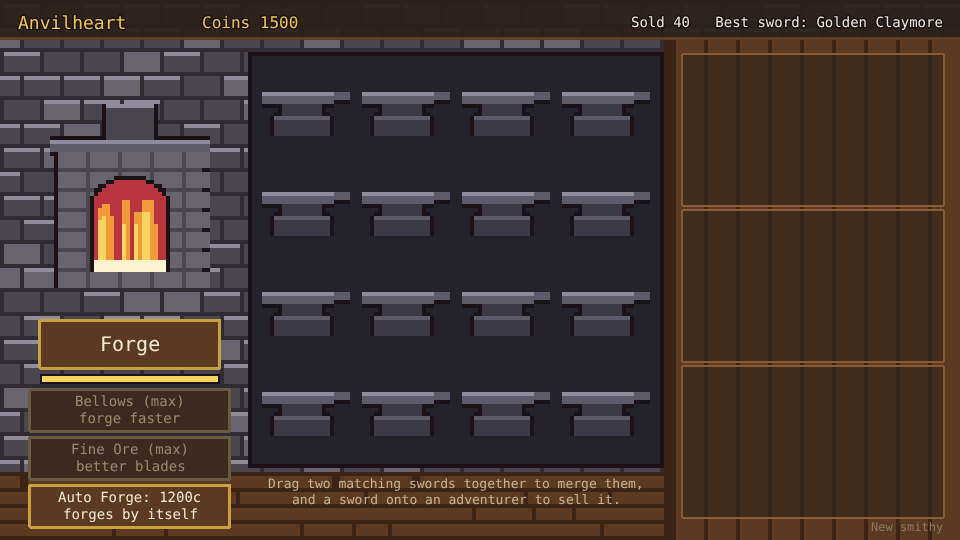
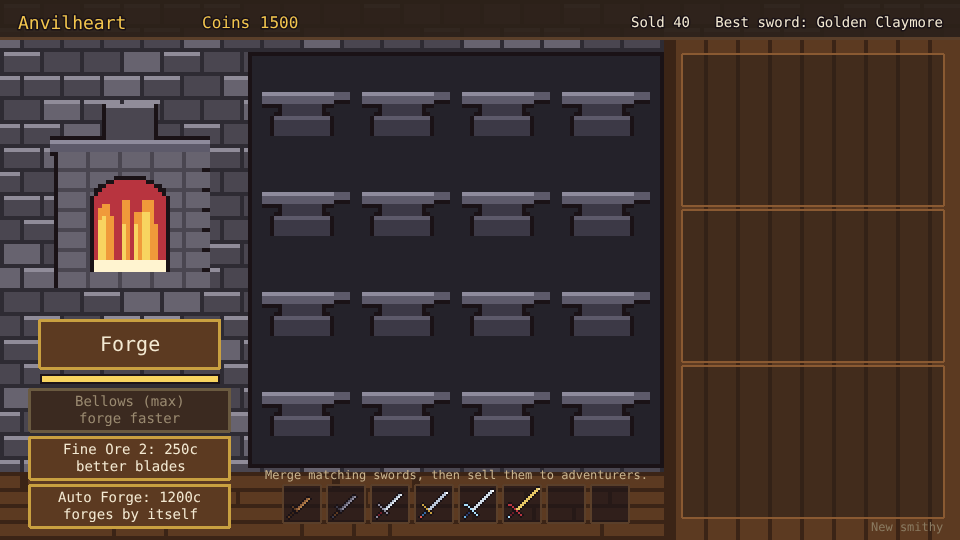
Anvilheart: Auto Forge needs only Bellows maxed; Fine Ore gets 5 ranks
Auto Forge now unlocks once Bellows is maxed; Fine Ore no longer has to
be. Fine Ore gets two more ranks (1500 and 3000 coins) at the same 20%
each, so at rank 5 the forge only makes Iron Shortswords. README,
AGENTS.md and the Auto Forge screenshots are updated; the playthrough
is unchanged.

Requested by Chriszly

Created with Claude Opus 5.5 (low)

Changed region(s): [[0.2812, 0.8593, 0.6562, 0.9778], [0.0312, 0.8, 0.25, 0.8889]]

diff --git a/games/anvilheart/src/game/upgrades.ts b/games/anvilheart/src/game/upgrades.ts
@@ -15,10 +15,11 @@ export interface Upgrade {
 export const UPGRADES: Record<UpgradeId, Upgrade> = {
   // Each rank takes 20% off the forge's heat-up time.
   bellows: { name: 'Bellows', blurb: 'forge faster', prices: [40, 110, 260, 600] },
-  // Each rank gives a 20% chance that the forge makes an Iron Shortsword instead of a dagger.
-  ore: { name: 'Fine Ore', blurb: 'better blades', prices: [90, 250, 700] },
+  // Each rank gives a 20% chance that the forge makes an Iron Shortsword instead of a dagger, so at
+  // the fifth rank it only makes Shortswords.
+  ore: { name: 'Fine Ore', blurb: 'better blades', prices: [90, 250, 700, 1500, 3000] },
   // The last forge upgrade: the forge makes a sword by itself whenever it is hot and an anvil is free.
-  auto: { name: 'Auto Forge', blurb: 'forges by itself', prices: [1200], after: ['bellows', 'ore'] },
+  auto: { name: 'Auto Forge', blurb: 'forges by itself', prices: [1200], after: ['bellows'] },
 };
 
 export const UPGRADE_IDS = Object.keys(UPGRADES) as UpgradeId[];

diff --git a/games/anvilheart/src/scenes/GameScene.ts b/games/anvilheart/src/scenes/GameScene.ts
@@ -308,7 +308,7 @@ export class GameScene extends Phaser.Scene {
         continue;
       }
       const name = u.prices.length > 1 ? `${u.name} ${rank + 1}` : u.name;
-      const blurb = locked(id, s.ranks) ? 'max the others first' : u.blurb;
+      const blurb = locked(id, s.ranks) ? 'max Bellows first' : u.blurb;
       const caption = price === null ? `${u.name} (max)\n${u.blurb}` : `${name}: ${price}c\n${blurb}`;
       button.set(caption, price !== null && s.coins >= price && !locked(id, s.ranks), 14);
     }

diff --git a/games/anvilheart/README.md b/games/anvilheart/README.md
@@ -56,10 +56,10 @@ them one by dragging it onto them. The coins buy upgrades for the forge.
 | Upgrade | Ranks | What it does |
 | --- | --- | --- |
 | Bellows | 4 (40, 110, 260, 600 coins) | The forge heats up 20% faster per rank |
-| Fine Ore | 3 (90, 250, 700 coins) | 20% chance per rank that the forge makes an Iron Shortsword |
-| Auto Forge | 1 (1200 coins), once Bellows and Fine Ore are maxed | The forge makes a sword by itself whenever it is hot and an anvil is free, so you only merge and sell. Tap it again to pause or restart it |
+| Fine Ore | 5 (90, 250, 700, 1500, 3000 coins) | 20% chance per rank that the forge makes an Iron Shortsword; at rank 5 it makes nothing else |
+| Auto Forge | 1 (1200 coins), once Bellows is maxed | The forge makes a sword by itself whenever it is hot and an anvil is free, so you only merge and sell. Tap it again to pause or restart it |
 
-![Auto Forge, unlocked once the other upgrades are maxed, forging on its own](docs/screenshots/auto-forge-on.png)
+![Auto Forge, unlocked once Bellows is maxed, forging on its own](docs/screenshots/auto-forge-on.png)
 
 The difficulty, set on the hub page's Settings, changes one thing: adventurers wait 50% longer on Easy and 30% less on Hard.
 

diff --git a/games/anvilheart/AGENTS.md b/games/anvilheart/AGENTS.md
@@ -15,9 +15,10 @@ Implemented today:
 - The full loop: forge with a heat-up cooldown, drag to move, swap or merge, drag onto an
   adventurer to sell, adventurers arriving on a timer and leaving when their patience runs out.
 - Progression: `bestTier` raises the tier adventurers may ask for; upgrades Bellows (faster forge),
-  Fine Ore (chance the forge makes a tier 2 sword) and, last, Auto Forge (one rank, locked until
-  Bellows and Fine Ore are maxed): the forge then makes a sword by itself whenever it is hot and an
-  anvil is free, so the player only merges and sells. Once bought, its button switches it on and
+  Fine Ore (five ranks of 20% chance the forge makes a tier 2 sword, so rank 5 always does) and,
+  last, Auto Forge (one rank, locked until
+  Bellows is maxed; Fine Ore is not needed): the forge then makes a sword by itself whenever it is
+  hot and an anvil is free, so the player only merges and sells. Once bought, its button switches it on and
   off (`autoForge`).
 - One screen (`GameScene`) with a HUD, drag highlights, patience and heat bars, a row of
   discovered swords under the board (one frame per tier, showing the sword's picture only, no
